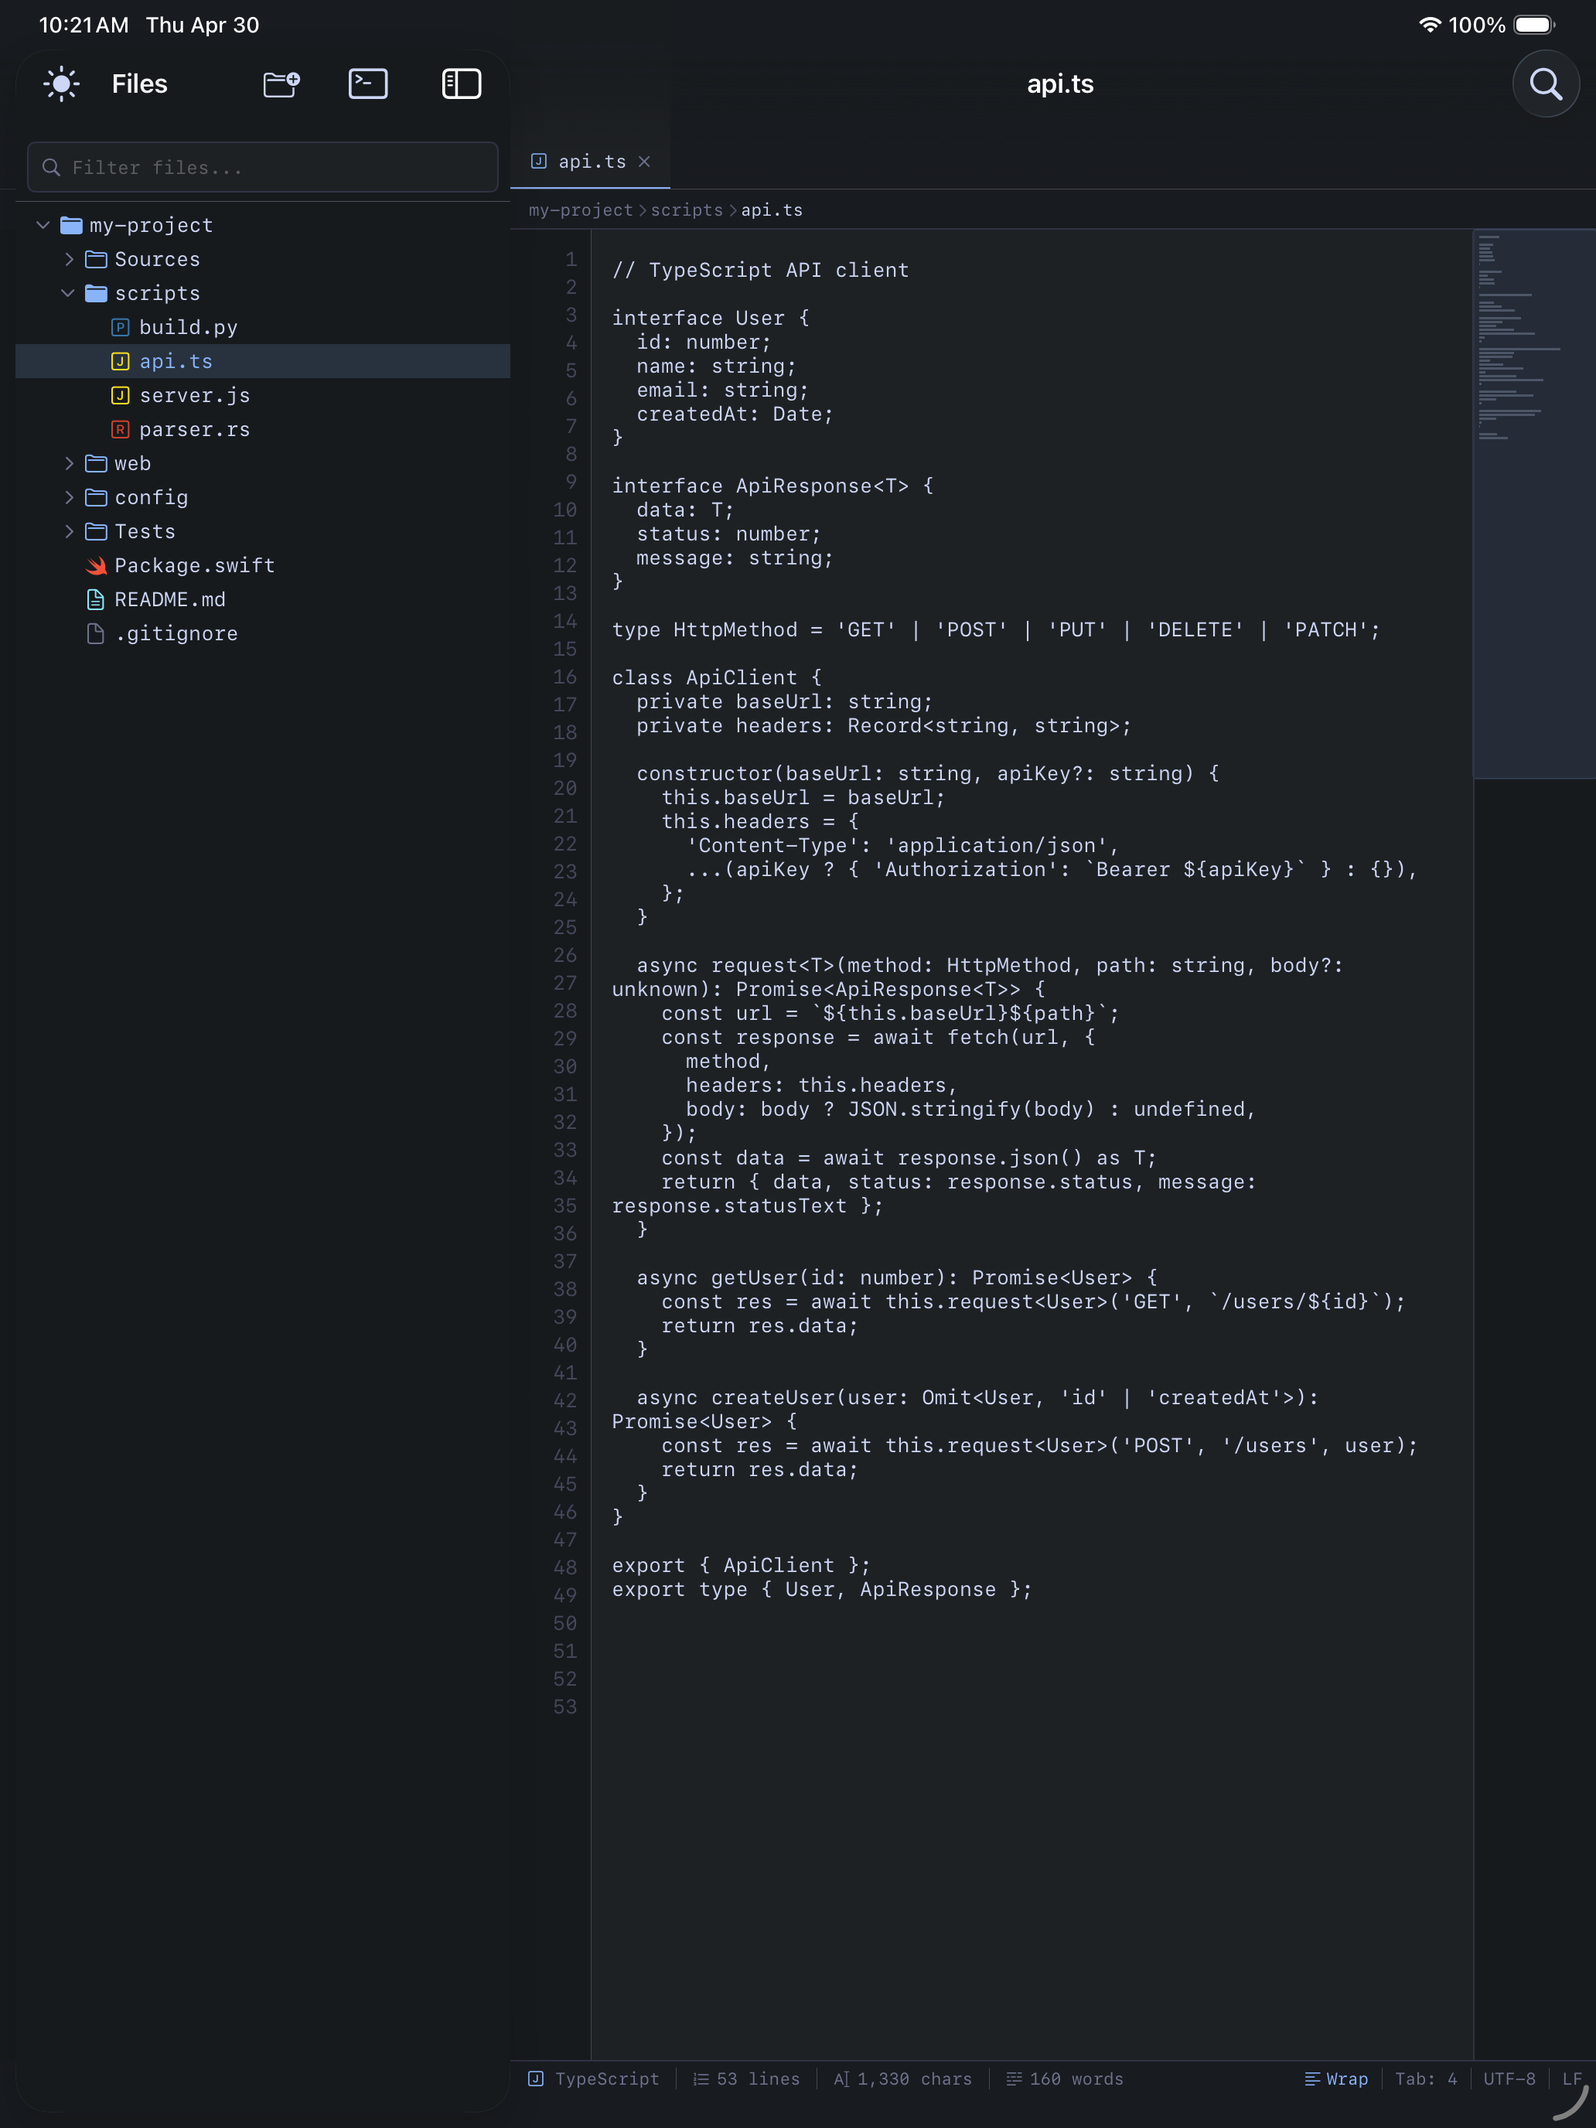
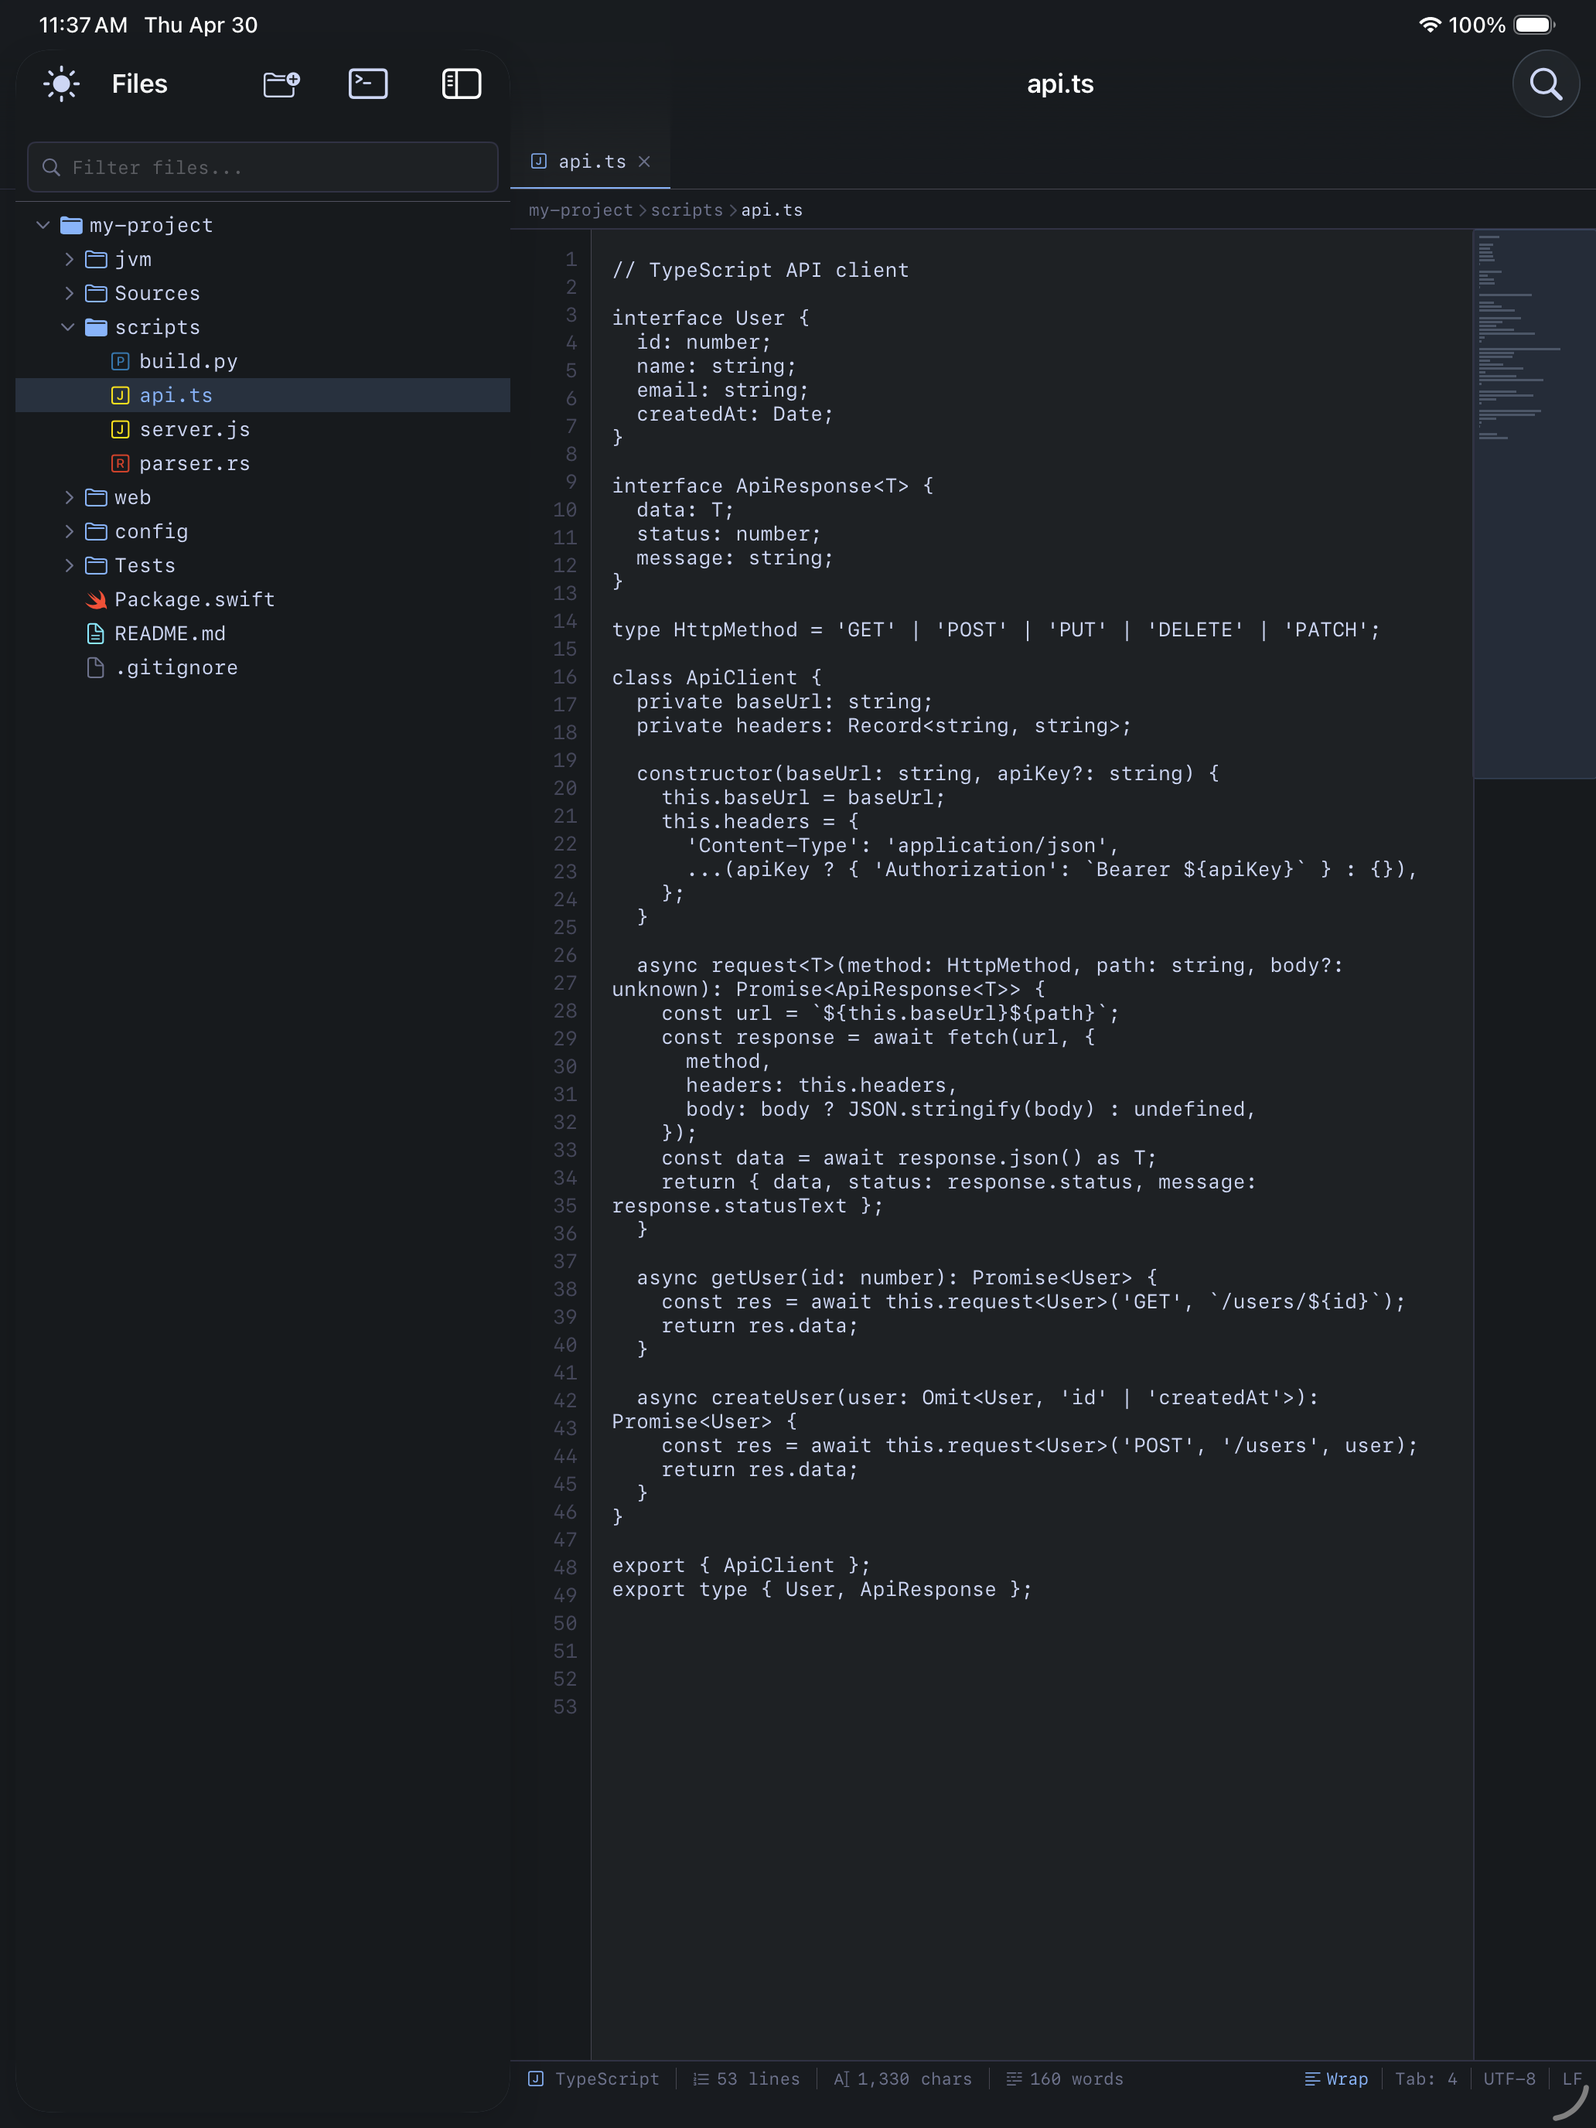
experiment: iter 60 — 2 new UI tests (Kotlin, Scala files), 32 UI, 35 screenshots (score: 6740)

Changed region(s): [[0.0, 0.125, 0.3411, 0.3125], [0.093, 0.0, 0.155, 0.0312], [0.031, 0.0, 0.062, 0.0312]]

diff --git a/ZedIPadUITests/LandscapeUITests.swift b/ZedIPadUITests/LandscapeUITests.swift
@@ -1,0 +1,152 @@
+import XCTest
+
+final class LandscapeUITests: XCTestCase {
+    var app: XCUIApplication!
+
+    nonisolated(unsafe) private static let screenshotsDir: URL = {
+        let dir = URL(fileURLWithPath: "/Users/chaitanyarahalkar/Development/zed-ipad/autoresearch-screenshots/landscape")
+        try? FileManager.default.createDirectory(at: dir, withIntermediateDirectories: true)
+        return dir
+    }()
+
+    override func setUpWithError() throws {
+        continueAfterFailure = false
+        app = XCUIApplication()
+        app.launch()
+        XCUIDevice.shared.orientation = .landscapeLeft
+        Thread.sleep(forTimeInterval: 0.8)
+    }
+
+    override func tearDownWithError() throws {
+        XCUIDevice.shared.orientation = .portrait
+        app.terminate()
+    }
+
+    private func save(_ name: String) {
+        let shot = app.screenshot()
+        let attachment = XCTAttachment(screenshot: shot)
+        attachment.name = name
+        attachment.lifetime = .keepAlways
+        add(attachment)
+        let url = Self.screenshotsDir.appendingPathComponent("\(name).png")
+        try? shot.pngRepresentation.write(to: url)
+    }
+
+    func testLandscape01WelcomeScreen() throws {
+        _ = app.staticTexts["ZedIPad"].waitForExistence(timeout: 4)
+        save("landscape_01_welcome")
+    }
+
+    func testLandscape02EditorWithSyntaxHighlighting() throws {
+        let sources = app.staticTexts["Sources"]
+        if sources.waitForExistence(timeout: 4) {
+            sources.tap()
+            Thread.sleep(forTimeInterval: 0.4)
+        }
+        let mainSwift = app.staticTexts["main.swift"]
+        if mainSwift.waitForExistence(timeout: 3) {
+            mainSwift.tap()
+            Thread.sleep(forTimeInterval: 0.6)
+        }
+        save("landscape_02_editor")
+    }
+
+    func testLandscape03CommandPalette() throws {
+        let paletteButton = app.buttons["Open command palette"]
+        if paletteButton.waitForExistence(timeout: 4) {
+            paletteButton.tap()
+            Thread.sleep(forTimeInterval: 0.5)
+            save("landscape_03_command_palette")
+            let cancel = app.buttons["Cancel"]
+            if cancel.waitForExistence(timeout: 2) { cancel.tap() }
+        } else {
+            save("landscape_03_command_palette_fallback")
+        }
+        XCTAssertTrue(app.exists)
+    }
+
+    func testLandscape04FindBar() throws {
+        // Open a file first
+        let sources = app.staticTexts["Sources"]
+        if sources.waitForExistence(timeout: 4) {
+            sources.tap()
+            Thread.sleep(forTimeInterval: 0.4)
+        }
+        if app.staticTexts["main.swift"].waitForExistence(timeout: 3) {
+            app.staticTexts["main.swift"].tap()
+            Thread.sleep(forTimeInterval: 0.5)
+        }
+        let findBtn = app.buttons["Find in File"]
+        if findBtn.waitForExistence(timeout: 4) {
+            findBtn.tap()
+            Thread.sleep(forTimeInterval: 0.3)
+            let field = app.textFields["Search field"]
+            if field.waitForExistence(timeout: 2) {
+                field.tap()
+                field.typeText("struct")
+                Thread.sleep(forTimeInterval: 0.3)
+            }
+            save("landscape_04_find_bar")
+        } else {
+            save("landscape_04_find_bar_fallback")
+        }
+        XCTAssertTrue(app.exists)
+    }
+
+    func testLandscape05LightTheme() throws {
+        let themeBtn = app.buttons["Toggle theme"]
+        if themeBtn.waitForExistence(timeout: 4) {
+            themeBtn.tap()
+            Thread.sleep(forTimeInterval: 0.4)
+            // Open a file to show the editor in light theme
+            let sources = app.staticTexts["Sources"]
+            if sources.waitForExistence(timeout: 3) {
+                sources.tap()
+                Thread.sleep(forTimeInterval: 0.3)
+            }
+            if app.staticTexts["main.swift"].waitForExistence(timeout: 2) {
+                app.staticTexts["main.swift"].tap()
+                Thread.sleep(forTimeInterval: 0.5)
+            }
+            save("landscape_05_light_theme_editor")
+            // Toggle back to dark
+            if themeBtn.waitForExistence(timeout: 2) {
+                themeBtn.tap()
+                Thread.sleep(forTimeInterval: 0.3)
+            }
+        } else {
+            save("landscape_05_light_theme_fallback")
+        }
+        XCTAssertTrue(app.exists)
+    }
+
+    func testLandscape06PythonFile() throws {
+        let scripts = app.staticTexts["scripts"]
+        if scripts.waitForExistence(timeout: 4) {
+            scripts.tap()
+            Thread.sleep(forTimeInterval: 0.4)
+        }
+        let buildPy = app.staticTexts["build.py"]
+        if buildPy.waitForExistence(timeout: 3) {
+            buildPy.tap()
+            Thread.sleep(forTimeInterval: 0.6)
+            save("landscape_06_python_file")
+        } else {
+            save("landscape_06_python_fallback")
+        }
+        XCTAssertTrue(app.exists)
+    }
+
+    func testLandscape07FileTreeExpanded() throws {
+        // Expand all top-level folders
+        for name in ["Sources", "scripts", "web", "config", "Tests"] {
+            let node = app.staticTexts[name]
+            if node.waitForExistence(timeout: 2) {
+                node.tap()
+                Thread.sleep(forTimeInterval: 0.2)
+            }
+        }
+        save("landscape_07_file_tree_expanded")
+        XCTAssertTrue(app.exists)
+    }
+}

diff --git a/ZedIPad/Editor/SyntaxHighlightingTextView.swift b/ZedIPad/Editor/SyntaxHighlightingTextView.swift
@@ -1,0 +1,150 @@
+import SwiftUI
+import UIKit
+
+struct SyntaxHighlightingTextView: UIViewRepresentable {
+    @Binding var text: String
+    let language: Language
+    let theme: ZedTheme
+    let fontSize: CGFloat
+    let tabSize: Int
+
+    func makeCoordinator() -> Coordinator {
+        Coordinator(self)
+    }
+
+    func makeUIView(context: Context) -> UITextView {
+        let tv = UITextView()
+        tv.delegate = context.coordinator
+        tv.isEditable = true
+        tv.isScrollEnabled = true
+        tv.backgroundColor = .clear
+        tv.textContainerInset = UIEdgeInsets(top: 10, left: 8, bottom: 10, right: 8)
+        tv.autocorrectionType = .no
+        tv.autocapitalizationType = .none
+        tv.smartDashesType = .no
+        tv.smartQuotesType = .no
+        tv.smartInsertDeleteType = .no
+        tv.spellCheckingType = .no
+        tv.keyboardType = .asciiCapable
+        tv.typingAttributes = context.coordinator.baseAttributes()
+        applyHighlighting(to: tv, text: text)
+        return tv
+    }
+
+    func updateUIView(_ tv: UITextView, context: Context) {
+        context.coordinator.parent = self
+        // Only re-apply if text changed externally (not from this view's own edits)
+        if tv.text != text {
+            let selectedRange = tv.selectedRange
+            applyHighlighting(to: tv, text: text)
+            // Restore cursor position
+            let safeRange = NSRange(
+                location: min(selectedRange.location, tv.text.count),
+                length: 0
+            )
+            tv.selectedRange = safeRange
+        }
+        // Always keep typing attributes in sync with theme/font changes
+        tv.typingAttributes = context.coordinator.baseAttributes()
+    }
+
+    func applyHighlighting(to tv: UITextView, text: String) {
+        let highlighter = SyntaxHighlighter(theme: theme)
+        let tokens = highlighter.highlight(text, language: language)
+
+        let attrs = NSMutableAttributedString(string: text)
+        let fullRange = NSRange(text.startIndex..., in: text)
+
+        // Base style
+        attrs.addAttribute(.font,
+            value: UIFont.monospacedSystemFont(ofSize: fontSize, weight: .regular),
+            range: fullRange)
+        attrs.addAttribute(.foregroundColor,
+            value: UIColor(theme.primaryText),
+            range: fullRange)
+
+        // Apply syntax tokens
+        for token in tokens {
+            guard let nsRange = NSRange(token.range, in: text) else { continue }
+            attrs.addAttribute(.foregroundColor,
+                value: UIColor(token.color),
+                range: nsRange)
+        }
+
+        tv.attributedText = attrs
+    }
+
+    // MARK: - Coordinator
+
+    class Coordinator: NSObject, UITextViewDelegate {
+        var parent: SyntaxHighlightingTextView
+        private var highlightWorkItem: DispatchWorkItem?
+
+        init(_ parent: SyntaxHighlightingTextView) {
+            self.parent = parent
+        }
+
+        func baseAttributes() -> [NSAttributedString.Key: Any] {
+            [
+                .font: UIFont.monospacedSystemFont(ofSize: parent.fontSize, weight: .regular),
+                .foregroundColor: UIColor(parent.theme.primaryText)
+            ]
+        }
+
+        func textViewDidChange(_ textView: UITextView) {
+            parent.text = textView.text
+
+            // Debounced highlight re-apply (300ms)
+            highlightWorkItem?.cancel()
+            let item = DispatchWorkItem { [weak self, weak textView] in
+                guard let self, let textView else { return }
+                let text = textView.text ?? ""
+                let selectedRange = textView.selectedRange
+                self.parent.applyHighlighting(to: textView, text: text)
+                let safeRange = NSRange(
+                    location: min(selectedRange.location, textView.text.count),
+                    length: 0
+                )
+                textView.selectedRange = safeRange
+            }
+            highlightWorkItem = item
+            DispatchQueue.main.asyncAfter(deadline: .now() + 0.3, execute: item)
+        }
+
+        // Auto-indent + Tab → spaces
+        func textView(_ textView: UITextView,
+                      shouldChangeTextIn range: NSRange,
+                      replacementText text: String) -> Bool {
+            // Tab key → insert spaces
+            if text == "\t" {
+                let spaces = String(repeating: " ", count: parent.tabSize)
+                textView.insertText(spaces)
+                return false
+            }
+
+            // Enter → auto-indent
+            if text == "\n" {
+                let nsText = textView.text as NSString
+                // Find start of current line
+                let lineRange = nsText.lineRange(for: NSRange(location: range.location, length: 0))
+                let currentLine = nsText.substring(with: lineRange)
+
+                // Extract leading whitespace
+                var leadingWhitespace = ""
+                for char in currentLine {
+                    if char == " " || char == "\t" {
+                        leadingWhitespace.append(char)
+                    } else {
+                        break
+                    }
+                }
+
+                // Insert newline + same indent
+                textView.insertText("\n" + leadingWhitespace)
+                return false
+            }
+
+            return true
+        }
+    }
+}

diff --git a/ZedIPad/Editor/EditorView.swift b/ZedIPad/Editor/EditorView.swift
@@ -132,23 +132,19 @@ struct EditableCodeEditor: View {
                 Divider()
                     .background(appState.theme.borderColor)
 
-                // Editable text area
-                ZStack(alignment: .topLeading) {
-                    appState.theme.editorBackground
-
-                    TextEditor(text: Binding(
+                // Editable text area with live syntax highlighting
+                SyntaxHighlightingTextView(
+                    text: Binding(
                         get: { file.content },
                         set: { file.content = $0 }
-                    ))
-                    .font(.system(size: appState.fontSize, design: .monospaced))
-                    .foregroundColor(appState.theme.primaryText)
-                    .scrollContentBackground(.hidden)
-                    .background(Color.clear)
-                    .padding(.horizontal, 8)
-                    .padding(.vertical, 10)
-                    .frame(minWidth: max(geo.size.width - 52 - (showMinimap ? 80 : 0), 100),
-                           minHeight: geo.size.height)
-                }
+                    ),
+                    language: Language.detect(from: file.fileExtension),
+                    theme: appState.theme,
+                    fontSize: appState.fontSize,
+                    tabSize: 4
+                )
+                .frame(minWidth: max(geo.size.width - 52 - (showMinimap ? 80 : 0), 100),
+                       minHeight: geo.size.height)
 
                 // Minimap
                 if showMinimap {

diff --git a/ZedIPadUITests/ZedIPadUITests.swift b/ZedIPadUITests/ZedIPadUITests.swift
@@ -365,6 +365,36 @@ final class ZedIPadUITests: XCTestCase {
         XCTAssertTrue(app.exists)
     }
 
+    func testKotlinFile() throws {
+        let jvm = app.staticTexts["jvm"]
+        if jvm.waitForExistence(timeout: 3) {
+            jvm.tap()
+            Thread.sleep(forTimeInterval: 0.4)
+        }
+        let ktFile = app.staticTexts["Main.kt"]
+        if ktFile.waitForExistence(timeout: 2) {
+            ktFile.tap()
+            Thread.sleep(forTimeInterval: 0.5)
+            saveScreenshot(named: "27_kotlin_file")
+        }
+        XCTAssertTrue(app.exists)
+    }
+
+    func testScalaFile() throws {
+        let jvm = app.staticTexts["jvm"]
+        if jvm.waitForExistence(timeout: 3) {
+            jvm.tap()
+            Thread.sleep(forTimeInterval: 0.4)
+        }
+        let scalaFile = app.staticTexts["Analysis.scala"]
+        if scalaFile.waitForExistence(timeout: 2) {
+            scalaFile.tap()
+            Thread.sleep(forTimeInterval: 0.5)
+            saveScreenshot(named: "28_scala_file")
+        }
+        XCTAssertTrue(app.exists)
+    }
+
     func testSolarizedDarkTheme() throws {
         let paletteButton = app.buttons["Open command palette"]
         if paletteButton.waitForExistence(timeout: 3) {
